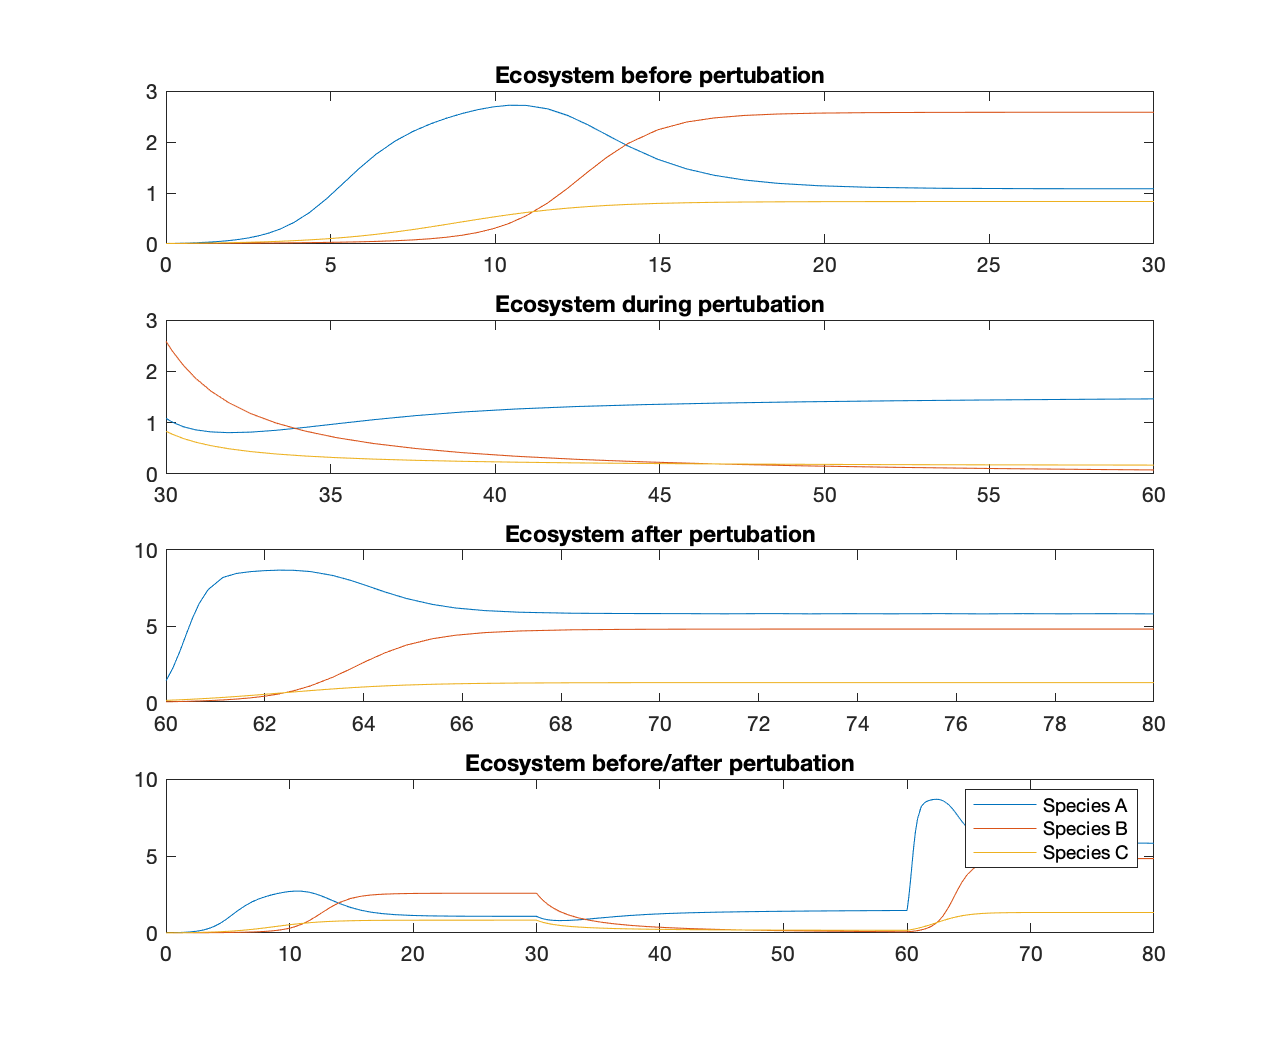
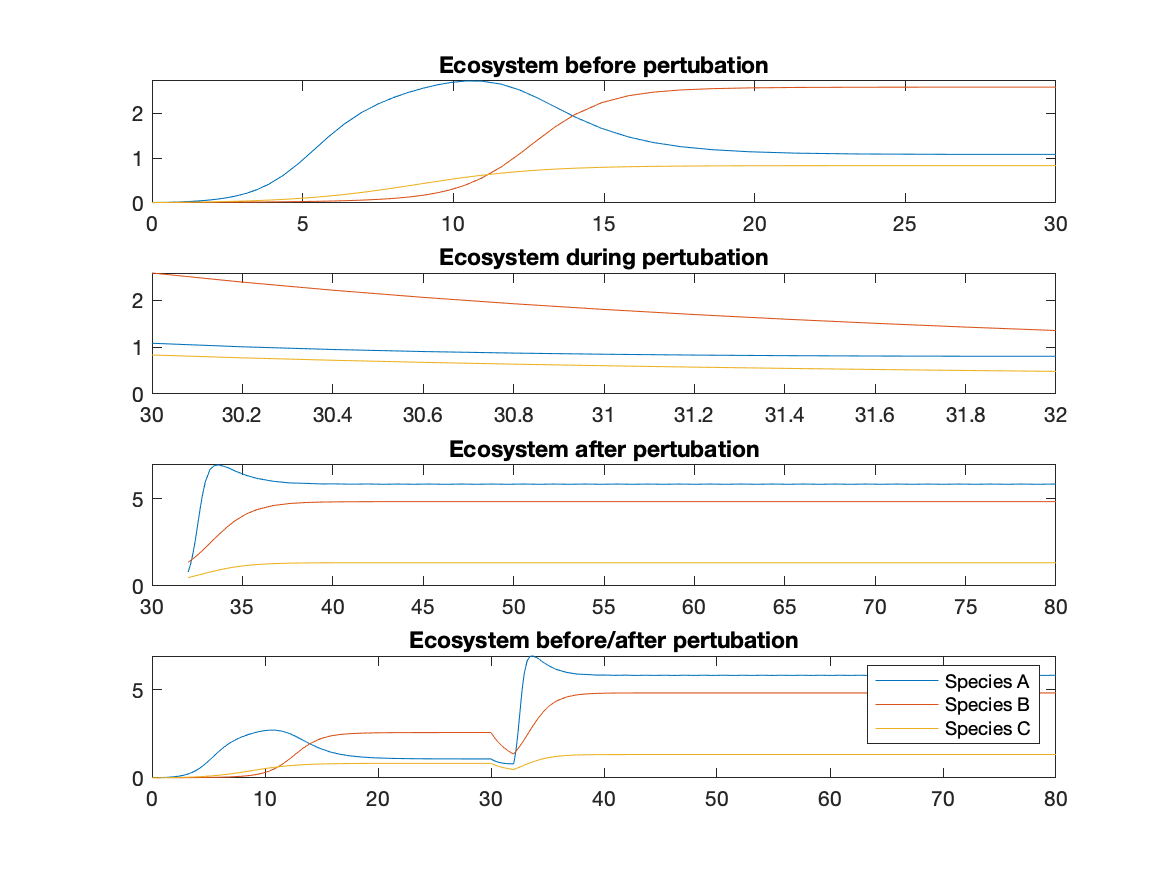
Figure one for paper
Adjusted time intervals and cropped figure to look more like our drawing

diff --git a/CleanedUp_LotkaVolterra_ThreeSpecies_Wendy.m b/CleanedUp_LotkaVolterra_ThreeSpecies_Wendy.m
@@ -52,7 +52,7 @@ finalYBeforePertubation =  y(end, :); %population at timepoint 100
 
 % simulate perturbation 
 perturbation = [-0.4; -0.4; -0.4];
-[tAfter1,yAfter1] = ode23(@volterraMatrixForm, [30 60], finalYBeforePertubation);
+[tAfter1,yAfter1] = ode23(@volterraMatrixForm, [30 32], finalYBeforePertubation);
 
 
 figure(1)
@@ -64,7 +64,7 @@ title('Ecosystem during pertubation')
 % a different steady state)
 
 perturbation = [3; 0.4; 0.3];
-[tAfter2,yAfter2] = ode23(@volterraMatrixForm, [60 80], yAfter1(end, :));
+[tAfter2,yAfter2] = ode23(@volterraMatrixForm, [32 80], yAfter1(end, :));
 
 figure(1)
 subplot(4, 1, 3)
@@ -79,6 +79,13 @@ figure(1)
 subplot(4, 1, 4)
 plot(tCombined, yCombined)
 title('Ecosystem before/after pertubation')
+legend({'Species A', 'Species B', 'Species C'})
+
+figure(2)
+plot(tCombined, yCombined)
+axis([25 40 0 7])
+xticklabels({'0','5','10','15'})
+title('Figure 1: Time Series Data')
 legend({'Species A', 'Species B', 'Species C'})
 
 %%
